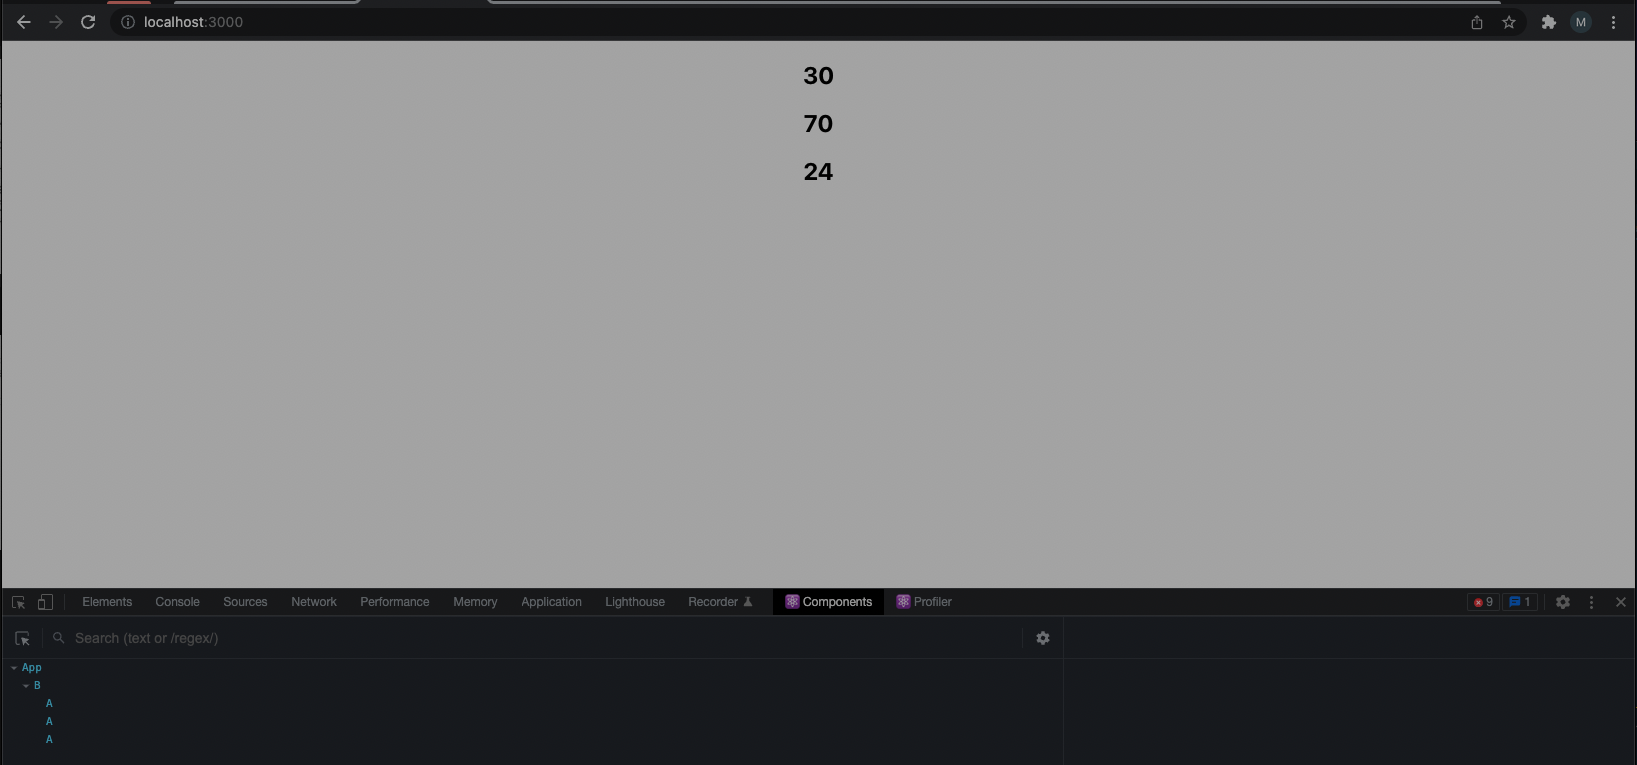
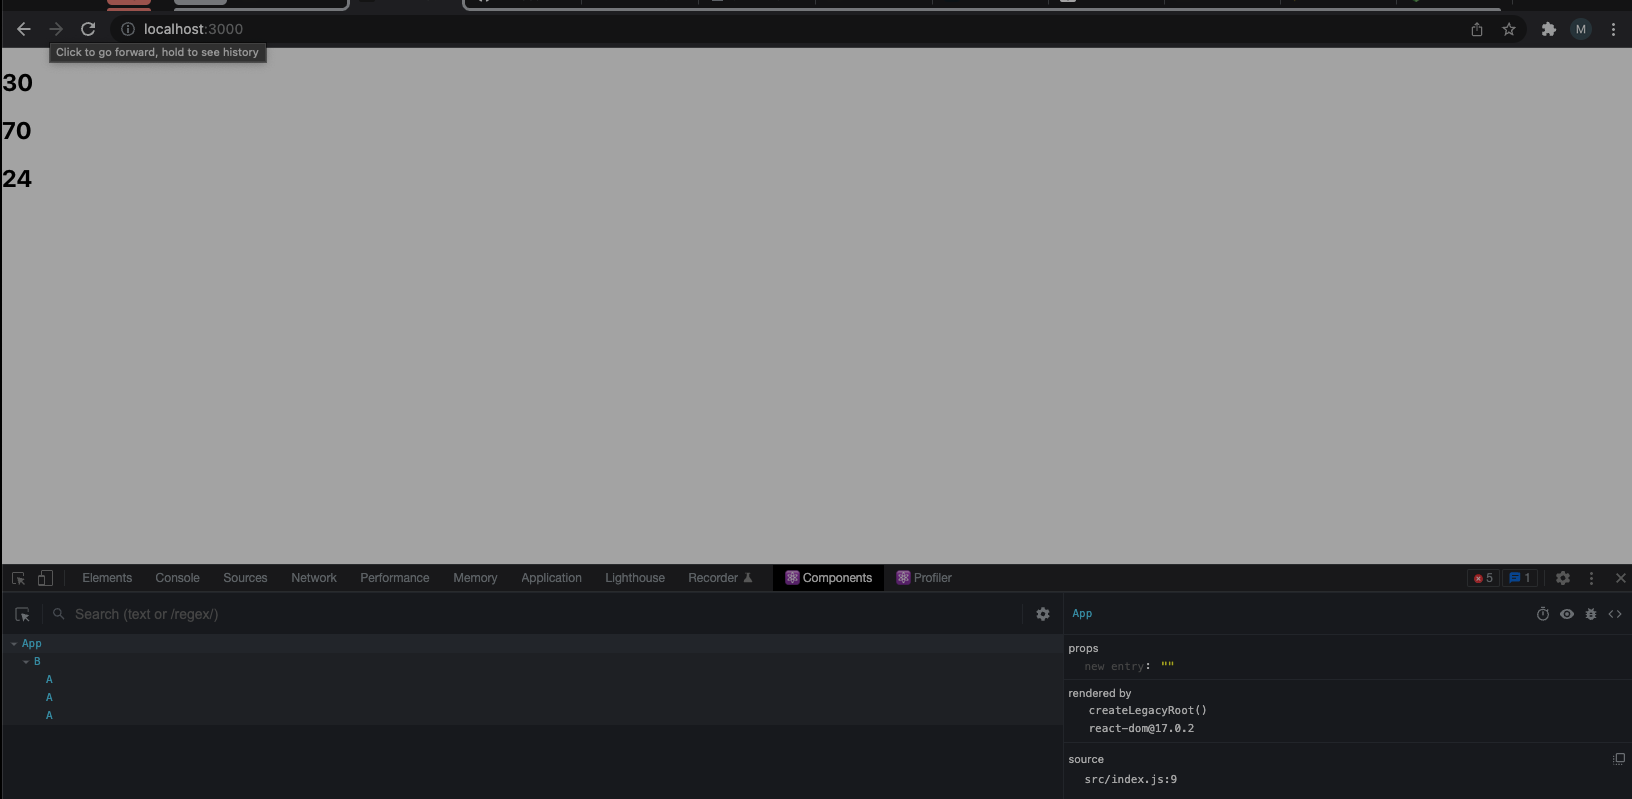
removed center tag from A file

diff --git a/src/components/A.js b/src/components/A.js
@@ -1,9 +1,7 @@
 export default function A(props) {
     return (
-        <center>
-            <h2>
-                {props.x + props.y}
-            </h2>
-        </center>
+        <h2>
+            {props.x + props.y}
+        </h2>
     );
 }
